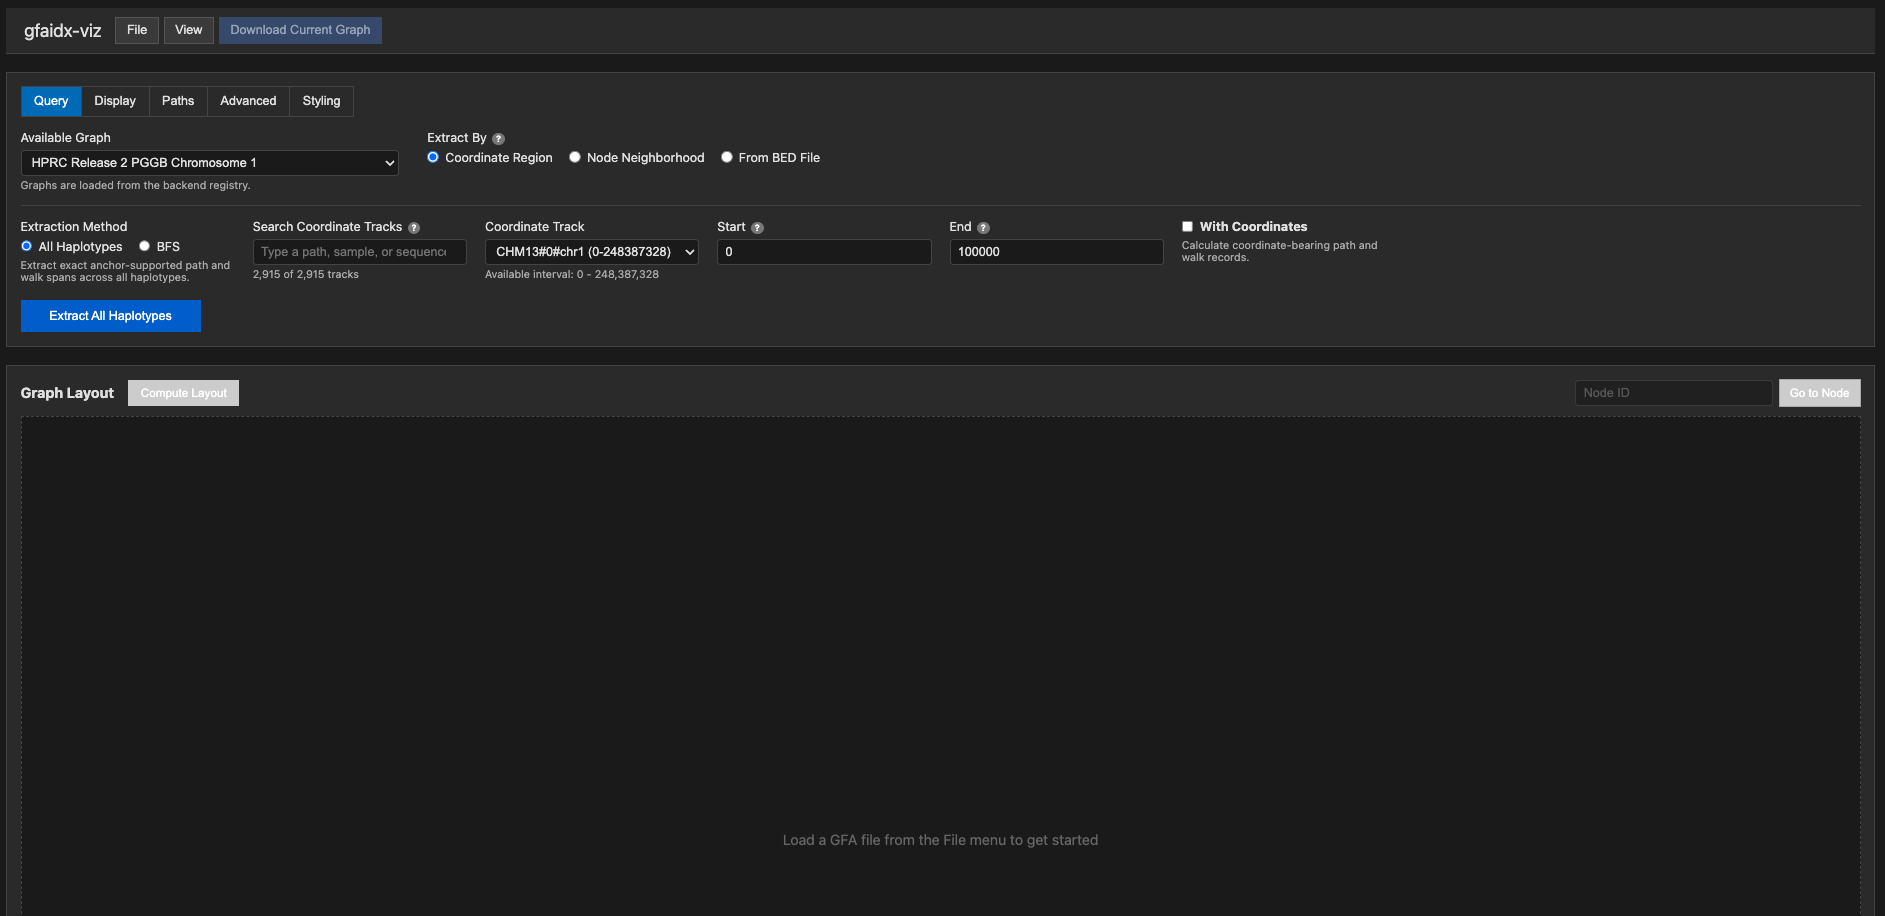
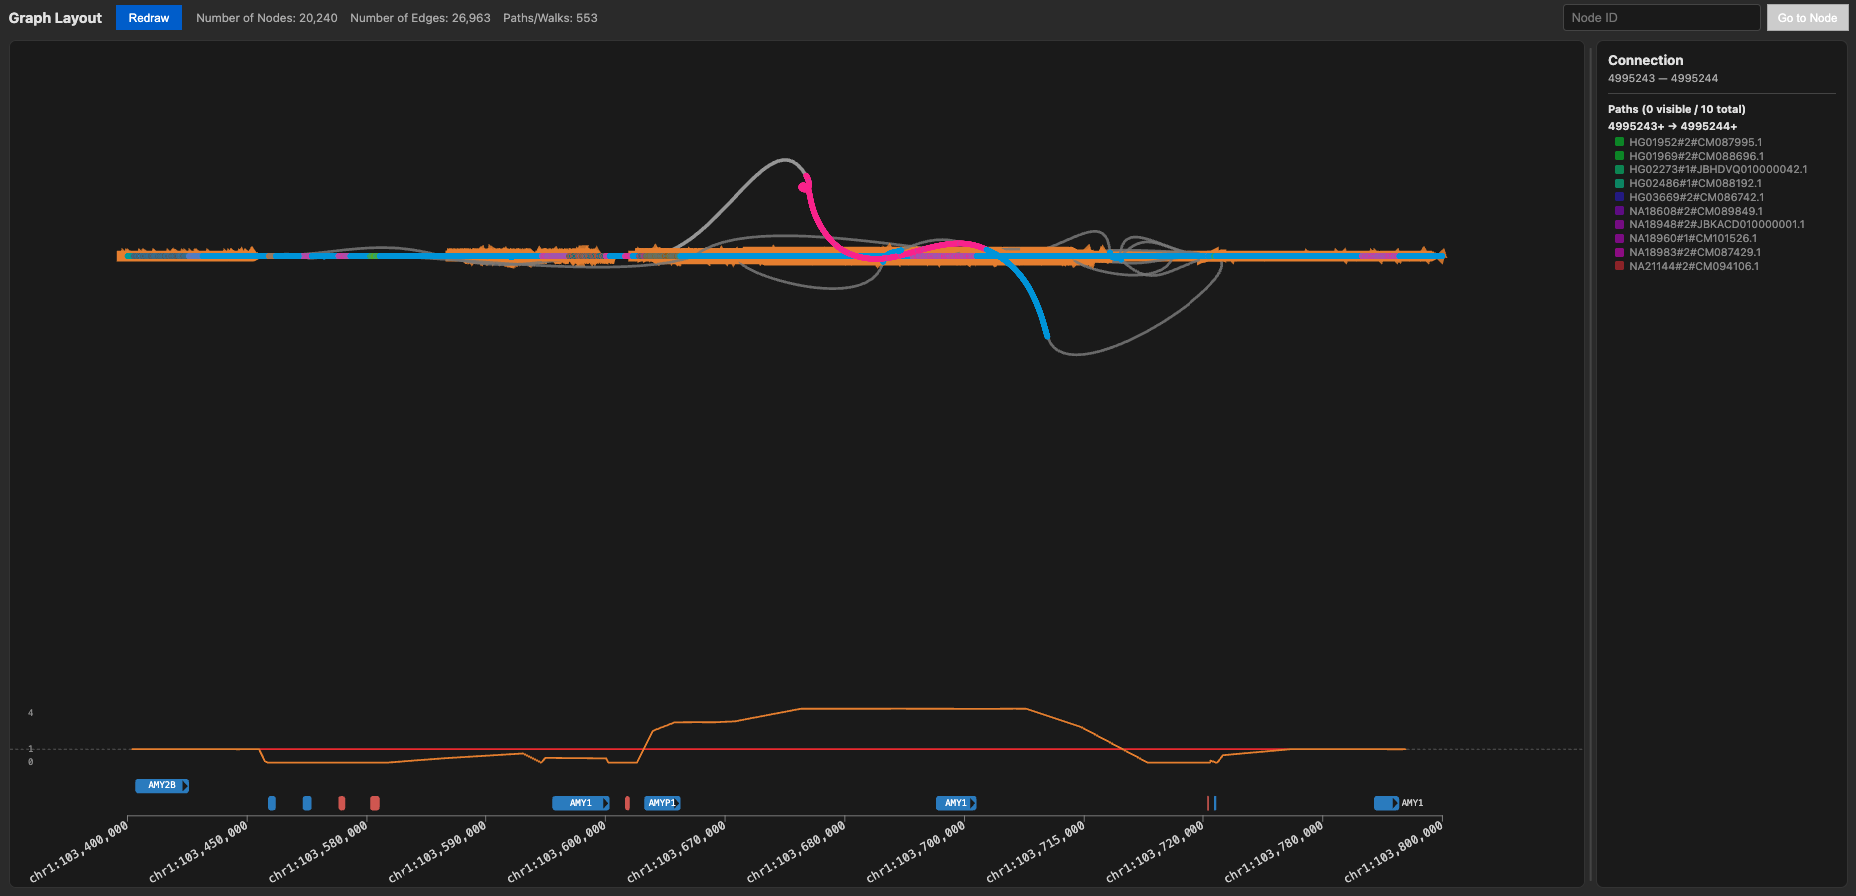
Remove OLIVE and replace blank gfaidx-viz screenshot
OLIVE plots 3D chromatin fibers rather than genomic coordinate space.
The gfaidx-viz screenshot now comes from the amylase locus example in its
repo docs (GPL-3.0).

diff --git a/README.md b/README.md
@@ -26,7 +26,7 @@ these, they can hamper your learning if you become overly reliant on them) make
 this much easier! But also consider making your visualization code re-usable for
 the wider community! And feel free to send PRs for more tools!
 
-Finally, at least 69% (401/579) tools in this list have written publications for
+Finally, at least 69% (400/578) tools in this list have written publications for
 their tools. They went through the effort to write it up, cite these tools!!
 
 New rule: 2026-10-11 I will no longer be accepting tools without source
@@ -610,11 +610,6 @@ feasible.
 - [Methplotlib](https://github.com/wdecoster/methplotlib)
   [(pub)](https://doi.org/10.1093/bioinformatics/btaa093)
   [(img)](https://cmdcolin.github.io/awesome-genome-visualization/methplotlib.jpg)
-- [OLIVE (Optical Looping Interactive Viewing Engine)](https://faryabilab.github.io/chromatin-traces-vis/)
-  (Web viewer for optical chromatin tracing data that reconstructs and shows the
-  3D fibers of individual alleles, queryable by pairwise distances between
-  segments) [(pub)](https://doi.org/10.1101/2025.06.18.660347)
-  [(img)](https://cmdcolin.github.io/awesome-genome-visualization/olive.png)
 - [python-genome-browser aka pygbrowse](https://github.com/phageghost/python-genome-browser/blob/master/pygbrowse_demonstration.ipynb)
   [(img)](https://cmdcolin.github.io/awesome-genome-visualization/pygbrowse.png)
 
